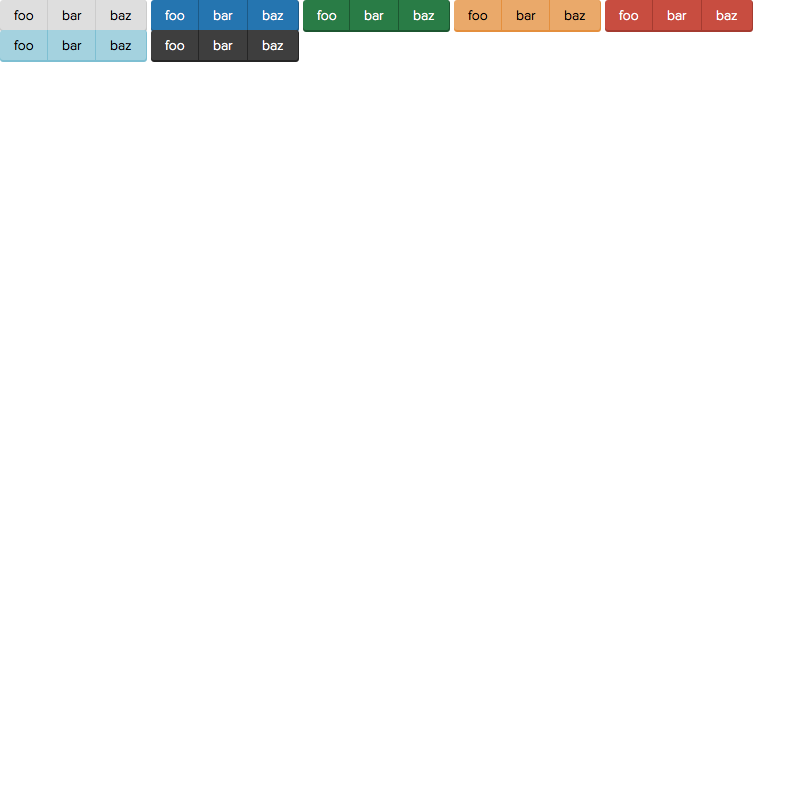
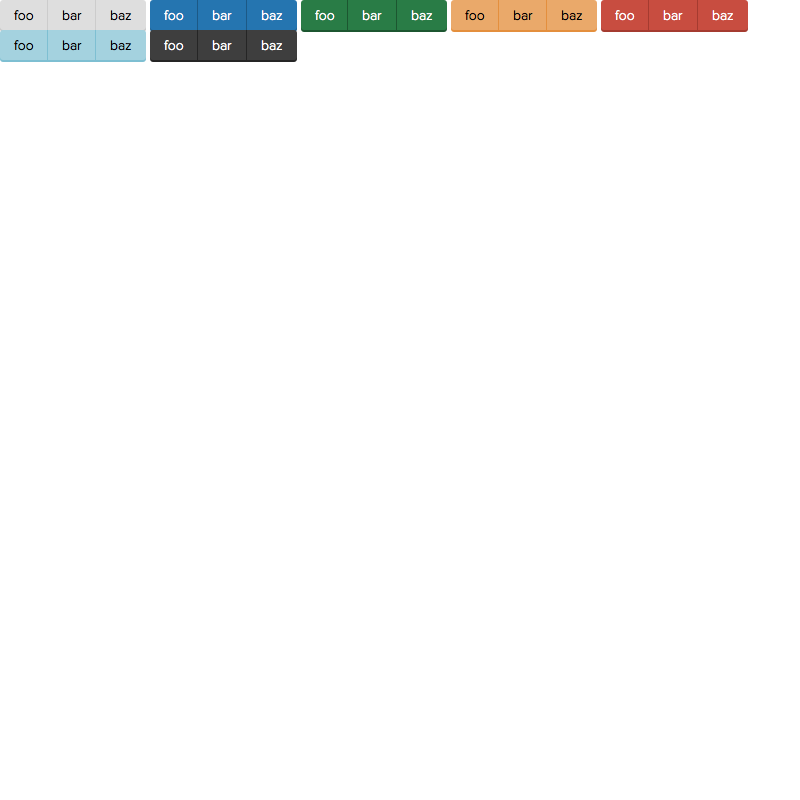
Remove unwanted border from last button in a button group
Closes #339

Changed region(s): [[0.1875, 0.0, 0.9688, 0.0625]]

diff --git a/stylesheets/_component.button-groups.scss b/stylesheets/_component.button-groups.scss
@@ -45,15 +45,14 @@
     margin-left: -1px;
 }
 
-.btn__group > .btn:not(.btn--naked):first-of-type,
+.btn__group > .btn:not(.btn--naked):not(.edit-button):not(.remove-button):first-of-type,
 .btn__group > .btn__group:first-of-type {
-    border-left-width: 0;
     border-left-width: 0;
     border-top-left-radius: 3px;
     border-bottom-left-radius: 3px;
 }
 
-.btn__group > .btn:last-of-type,
+.btn__group > .btn:not(.btn--naked):not(.edit-button):not(.remove-button):last-of-type,
 .btn__group > .btn__group:last-of-type {
     border-right-width: 0;
     border-top-right-radius: 3px;
